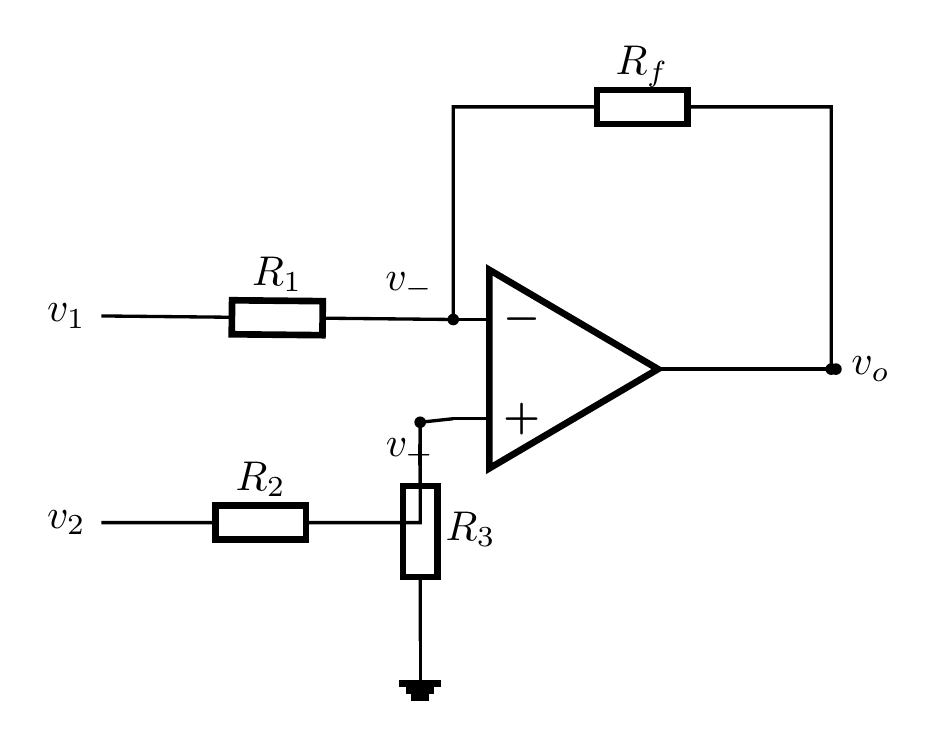
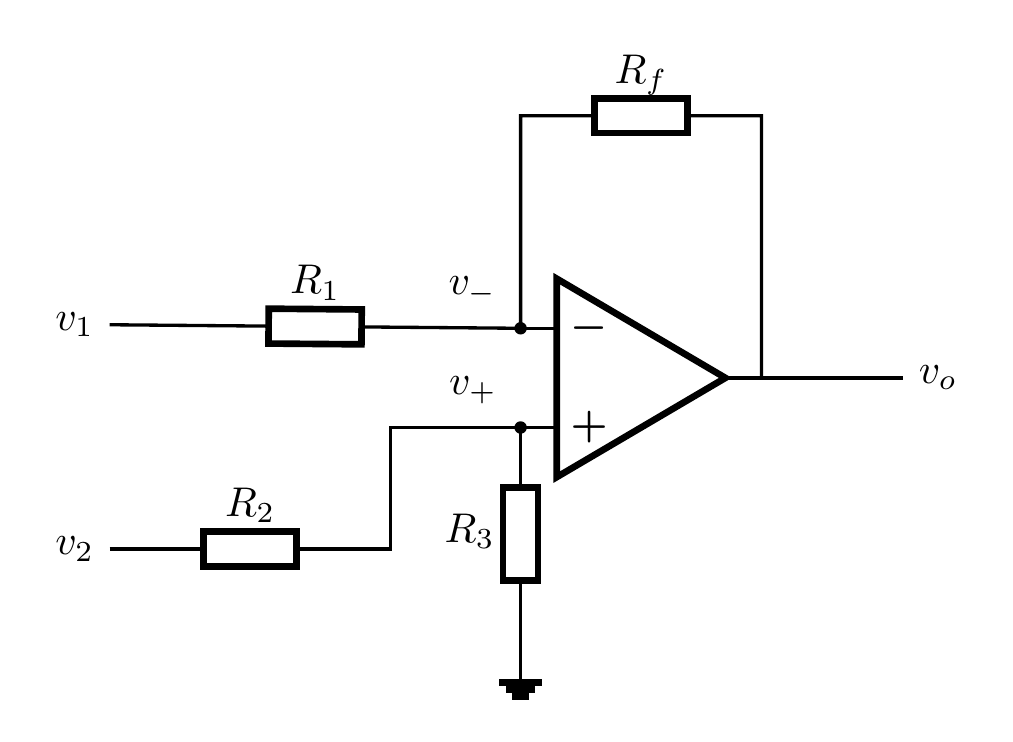
Refine circuitikz op-amp layouts

Changed region(s): [[0.0309, 0.0599, 0.9275, 0.9591], [0.4328, 0.7793, 0.4638, 0.9591], [0.9275, 0.5095, 0.9584, 0.5395]]

diff --git a/analog/progress.html b/analog/progress.html
@@ -62,6 +62,7 @@
 <li>减法电路“等阻值特例”中反馈电阻与同相端接地电阻的配对错误。</li>
 </ul>
 <p>运放电路图最初使用 Wikimedia Commons 公有领域图片，现已改为课程自有的 LaTeX <code>circuitikz</code> 图。源码、PNG 和重建脚本位于 <code>assets/opamp/circuitikz/</code>。</p>
+<p>2026-10-28 又优化了加法器、差分放大、跟随器和同相放大四幅图的布线：消除反馈线斜率、无节点交叉和标签拥挤，并统一其余三幅图的 <code>circuitikz</code> 设置。</p>
 <h3>已知可迁移基础</h3>
 <ul>
 <li>电阻串并联、输入电阻和电源置零的基础较好。</li>
@@ -283,6 +284,30 @@
 <li>7 张 PNG 已逐张查看，确认运放输入、输出、反馈与接地连接正确。</li>
 <li>网页本地图片路径和样式已检查。</li>
 </ul>
+
+</div>
+<div class="doc">
+<h3>0006 · circuitikz 图示布局优化</h3>
+<h3>日期</h3>
+<p>2026-10-28</p>
+<h3>优化范围</h3>
+<ul>
+<li>反相加法器</li>
+<li>差分放大电路</li>
+<li>电压跟随器</li>
+<li>同相放大电路</li>
+</ul>
+<h3>具体修改</h3>
+<ul>
+<li>反馈电阻与反馈导线改为严格水平、垂直连接，去掉斜线和多余折线。</li>
+<li>加法器的两条输入支路重新分配横向位置，避免竖线挤在反相节点附近。</li>
+<li>差分电路把 \(R_2\) 的输入改为横平竖直的折线，并让 \(R_3\) 从同相节点垂直接地。</li>
+<li>跟随器把反馈回路移到运放上方，避免与输入线发生无节点交叉。</li>
+<li>同相放大器拉开 \(R_1\) 与 \(v_i\) 标签的间距，使输入只连接同相端。</li>
+<li>反相、积分、微分图同步改用相同 <code>circuitikz</code> 宏包设置和电阻比例。</li>
+</ul>
+<h3>验证</h3>
+<p>使用 <code>latex-circuitikz</code> 技能提供的编译脚本，以 XeLaTeX 编译 PDF，再以 300 dpi 渲染 PNG。七张图均已重新编译，问题图中的线路、节点和标签逐张检查通过。</p>
 
 </div>
 </body></html>

diff --git a/analog/assets/opamp/circuitikz/differential.tex b/analog/assets/opamp/circuitikz/differential.tex
@@ -1,30 +1,32 @@
-\documentclass[border=8pt]{standalone}
-\usepackage{circuitikz}
-\ctikzset{resistor=european,resistors/scale=0.8,capacitors/scale=0.8,bipoles/length=1.2cm}
+\documentclass[border=10pt]{standalone}
+\usepackage[european,american voltages,american inductors,american currents]{circuitikz}
+\ctikzset{resistors/scale=0.82,capacitors/scale=0.8,bipoles/length=1.2cm}
 \begin{document}
 \begin{circuitikz}[line width=0.8pt]
-  \node[op amp] (op) at (4,0) {};
+  \node[op amp] (op) at (4.5,0) {};
   \coordinate (inv) at (op.-);
   \coordinate (noninv) at (op.+);
 
   \draw (0,0.45) node[left] {$v_1$}
     to[R=$R_1$] (inv);
 
-  \draw (inv) -- ++(0,1.8) coordinate (fb-left)
-    to[R=$R_f$] ++(3.2,0) coordinate (fb-right)
-    -- (fb-right |- op.out)
+  \coordinate (fbleft) at ([yshift=1.8cm]inv);
+  \coordinate (fbright) at (op.out |- fbleft);
+  \draw (inv) -- (fbleft)
+    to[R=$R_f$] (fbright)
     -- (op.out);
 
-  \draw (0,-1.3) node[left] {$v_2$}
-    to[R=$R_2$] (2.7,-1.3) -- (2.7,-0.45) -- (noninv);
-  \draw (2.7,-0.45) to[R=$R_3$] (2.7,-2.3) node[ground] {};
+  \coordinate (r2end) at ([xshift=-1.1cm]noninv);
+  \draw (0,-1.45) node[left] {$v_2$}
+    to[R=$R_2$] (r2end |- 0,-1.45)
+    -- (r2end) -- (noninv);
+  \draw (noninv) to[R,l_=$R_3$] ([yshift=-1.8cm]noninv)
+    node[ground] {};
 
-  \draw (op.out) -- ++(1.2,0) coordinate (out) node[right] {$v_o$};
-  \fill (inv) circle (1.4pt);
-  \fill (2.7,-0.45) circle (1.4pt);
-  \fill (fb-right |- op.out) circle (1.4pt);
-  \fill (out) circle (1.4pt);
-  \draw (op.-) node[above left=1pt] {$v_-$};
-  \draw (op.+) node[below left=1pt] {$v_+$};
+  \draw (op.out) -- ++(1.2,0) node[right] {$v_o$};
+  \fill (inv) circle (1.5pt);
+  \fill (noninv) circle (1.5pt);
+  \draw (inv) node[above left=2pt] {$v_-$};
+  \draw (noninv) node[above left=2pt] {$v_+$};
 \end{circuitikz}
 \end{document}

diff --git a/analog/assets/opamp/circuitikz/summing.tex b/analog/assets/opamp/circuitikz/summing.tex
@@ -1,29 +1,29 @@
-\documentclass[border=8pt]{standalone}
-\usepackage{circuitikz}
-\ctikzset{resistor=european,resistors/scale=0.8,capacitors/scale=0.8,bipoles/length=1.2cm}
+\documentclass[border=10pt]{standalone}
+\usepackage[european,american voltages,american inductors,american currents]{circuitikz}
+\ctikzset{resistors/scale=0.82,capacitors/scale=0.8,bipoles/length=1.2cm}
 \begin{document}
 \begin{circuitikz}[line width=0.8pt]
-  \node[op amp] (op) at (5,0) {};
+  \node[op amp] (op) at (5.2,0) {};
   \coordinate (inv) at (op.-);
 
-  \draw (0,1.1) node[left] {$v_1$}
-    to[R=$R_1$] (3.1,1.1) -- (3.1,0.45) -- (inv);
-  \draw (0,2.2) node[left] {$v_2$}
-    to[R=$R_2$] (2.7,2.2) -- (2.7,0.45) -- (inv);
+  \draw (0,1.45) node[left] {$v_2$}
+    to[R=$R_2$] (2.55,1.45)
+    -- (2.55,0.45) -- (inv);
+  \draw (0,0.45) node[left] {$v_1$}
+    to[R=$R_1$] (2.0,0.45)
+    -- (inv);
 
-  \draw (inv) -- ++(0,1.8) coordinate (fb-left)
-    to[R=$R_f$] ++(3.2,0) coordinate (fb-right)
-    -- (fb-right |- op.out)
+  \coordinate (fbleft) at ([yshift=1.8cm]inv);
+  \coordinate (fbright) at (op.out |- fbleft);
+  \draw (inv) -- (fbleft)
+    to[R=$R_f$] (fbright)
     -- (op.out);
 
-  \draw (op.+) -- (op.+ |- 0,-1.5) node[ground] {};
-  \draw (op.out) -- ++(1.2,0) coordinate (out) node[right] {$v_o$};
+  \draw (op.+) -- (op.+ |- 0,-1.6) node[ground] {};
+  \draw (op.out) -- ++(1.2,0) node[right] {$v_o$};
 
-  \fill (inv) circle (1.4pt);
-  \fill (3.1,0.45) circle (1.2pt);
-  \fill (fb-right |- op.out) circle (1.4pt);
-  \fill (out) circle (1.4pt);
-  \draw (op.-) node[above left=1pt] {$v_-$};
-  \draw (op.+) node[below left=1pt] {$v_+$};
+  \fill (inv) circle (1.5pt);
+  \draw (inv) node[above left=2pt] {$v_-$};
+  \draw (op.+) node[below left=2pt] {$v_+$};
 \end{circuitikz}
 \end{document}

diff --git a/analog/assets/opamp/circuitikz/non-inverting.tex b/analog/assets/opamp/circuitikz/non-inverting.tex
@@ -1,27 +1,28 @@
-\documentclass[border=8pt]{standalone}
-\usepackage{circuitikz}
-\ctikzset{resistor=european,resistors/scale=0.8,capacitors/scale=0.8,bipoles/length=1.2cm}
+\documentclass[border=10pt]{standalone}
+\usepackage[european,american voltages,american inductors,american currents]{circuitikz}
+\ctikzset{resistors/scale=0.82,capacitors/scale=0.8,bipoles/length=1.2cm}
 \begin{document}
 \begin{circuitikz}[line width=0.8pt]
-  \node[op amp] (op) at (4,0) {};
-  \coordinate (inp) at ([xshift=-3cm]op.+);
+  \node[op amp] (op) at (4.5,0) {};
+  \coordinate (inv) at (op.-);
+  \coordinate (inp) at ([xshift=-2.2cm]op.+);
+  \coordinate (r1top) at ([xshift=-3.9cm]op.-);
+
   \draw (inp) node[left] {$v_i$} -- (op.+);
 
-  \coordinate (inv) at (op.-);
-  \coordinate (r1top) at ([xshift=-3.7cm]op.-);
   \draw (inv) -- (r1top);
-  \draw (r1top) to[R=$R_1$] ++(0,-1.6) node[ground] {};
+  \draw (r1top) to[R=$R_1$] ++(0,-1.7) node[ground] {};
 
-  \draw (inv) -- ++(0,1.8) coordinate (fb-left)
-    to[R=$R_f$] ++(3.2,0) coordinate (fb-right)
-    -- (fb-right |- op.out)
+  \coordinate (fbleft) at ([yshift=1.8cm]inv);
+  \coordinate (fbright) at (op.out |- fbleft);
+  \draw (inv) -- (fbleft)
+    to[R=$R_f$] (fbright)
     -- (op.out);
 
-  \draw (op.out) -- ++(1.2,0) coordinate (out) node[right] {$v_o$};
-  \fill (inv) circle (1.4pt);
-  \fill (fb-right |- op.out) circle (1.4pt);
-  \fill (out) circle (1.4pt);
-  \draw (op.-) node[above left=1pt] {$v_-$};
-  \draw (op.+) node[below left=1pt] {$v_+$};
+  \draw (op.out) -- ++(1.2,0) node[right] {$v_o$};
+  \fill (inv) circle (1.5pt);
+  \fill (op.out) circle (1.5pt);
+  \draw (inv) node[above left=2pt] {$v_-$};
+  \draw (op.+) node[below left=2pt] {$v_+$};
 \end{circuitikz}
 \end{document}

diff --git a/analog/assets/opamp/circuitikz/voltage-follower.tex b/analog/assets/opamp/circuitikz/voltage-follower.tex
@@ -1,20 +1,20 @@
-\documentclass[border=8pt]{standalone}
-\usepackage{circuitikz}
-\ctikzset{resistor=european,resistors/scale=0.8,capacitors/scale=0.8,bipoles/length=1.2cm}
+\documentclass[border=10pt]{standalone}
+\usepackage[european,american voltages,american inductors,american currents]{circuitikz}
+\ctikzset{resistors/scale=0.82,capacitors/scale=0.8,bipoles/length=1.2cm}
 \begin{document}
 \begin{circuitikz}[line width=0.8pt]
-  \node[op amp] (op) at (4,0) {};
-  \coordinate (inp) at ([xshift=-3cm]op.+);
-  \coordinate (invleft) at ([xshift=-1.0cm]op.-);
-  \coordinate (fbbottom) at ([yshift=-1.7cm]op.-);
-  \coordinate (corner) at (invleft |- fbbottom);
-
+  \node[op amp] (op) at (4.5,0) {};
+  \coordinate (inp) at ([xshift=-3.8cm]op.+);
+  \coordinate (fbleft) at ([yshift=1.6cm]op.-);
+  \coordinate (fbright) at (op.out |- fbleft);
   \draw (inp) node[left] {$v_i$} -- (op.+);
-  \draw (op.out) -- ++(1.3,0) coordinate (out) node[right] {$v_o$};
-  \draw (out) -- (out |- fbbottom) -- (corner) -- (invleft) -- (op.-);
-  \fill (op.-) circle (1.4pt);
-  \fill (out) circle (1.4pt);
-  \draw (op.-) node[above left=1pt] {$v_-$};
-  \draw (op.+) node[below left=1pt] {$v_+$};
+  \draw (op.out) -- ++(1.2,0) coordinate (out) node[right] {$v_o$};
+
+  \draw (op.out) -- (fbright) -- (fbleft) -- (op.-);
+
+  \fill (op.-) circle (1.5pt);
+  \fill (op.out) circle (1.5pt);
+  \draw (op.-) node[below left=2pt] {$v_-$};
+  \draw (op.+) node[below left=2pt] {$v_+$};
 \end{circuitikz}
 \end{document}

diff --git a/analog/assets/opamp/circuitikz/inverting.tex b/analog/assets/opamp/circuitikz/inverting.tex
@@ -1,16 +1,12 @@
-\documentclass[border=8pt]{standalone}
-\usepackage{circuitikz}
-\ctikzset{
-  resistor=european,
-  resistors/scale=0.8,
-  capacitors/scale=0.8,
-  bipoles/length=1.2cm
-}
+\documentclass[border=10pt]{standalone}
+\usepackage[european,american voltages,american inductors,american currents]{circuitikz}
+\ctikzset{resistors/scale=0.82,capacitors/scale=0.8,bipoles/length=1.2cm}
 \begin{document}
 \begin{circuitikz}[line width=0.8pt]
-  \node[op amp] (op) at (4,0) {};
+  \node[op amp] (op) at (4.5,0) {};
+  \coordinate (inp) at ([xshift=-4cm]op.-);
 
-  \draw (0,0) node[left] {$v_i$}
+  \draw (inp) node[left] {$v_i$}
     to[R=$R_1$] (op.-);
 
   \draw (op.+) -- (op.+ |- 0,-1.5) node[ground] {};

diff --git a/analog/assets/opamp/circuitikz/differentiator.tex b/analog/assets/opamp/circuitikz/differentiator.tex
@@ -1,6 +1,6 @@
-\documentclass[border=8pt]{standalone}
-\usepackage{circuitikz}
-\ctikzset{resistor=european,resistors/scale=0.8,capacitors/scale=0.8,bipoles/length=1.2cm}
+\documentclass[border=10pt]{standalone}
+\usepackage[european,american voltages,american inductors,american currents]{circuitikz}
+\ctikzset{resistors/scale=0.82,capacitors/scale=0.8,bipoles/length=1.2cm}
 \begin{document}
 \begin{circuitikz}[line width=0.8pt]
   \node[op amp] (op) at (4,0) {};

diff --git a/analog/assets/opamp/circuitikz/integrator.tex b/analog/assets/opamp/circuitikz/integrator.tex
@@ -1,6 +1,6 @@
-\documentclass[border=8pt]{standalone}
-\usepackage{circuitikz}
-\ctikzset{resistor=european,resistors/scale=0.8,capacitors/scale=0.8,bipoles/length=1.2cm}
+\documentclass[border=10pt]{standalone}
+\usepackage[european,american voltages,american inductors,american currents]{circuitikz}
+\ctikzset{resistors/scale=0.82,capacitors/scale=0.8,bipoles/length=1.2cm}
 \begin{document}
 \begin{circuitikz}[line width=0.8pt]
   \node[op amp] (op) at (4,0) {};
